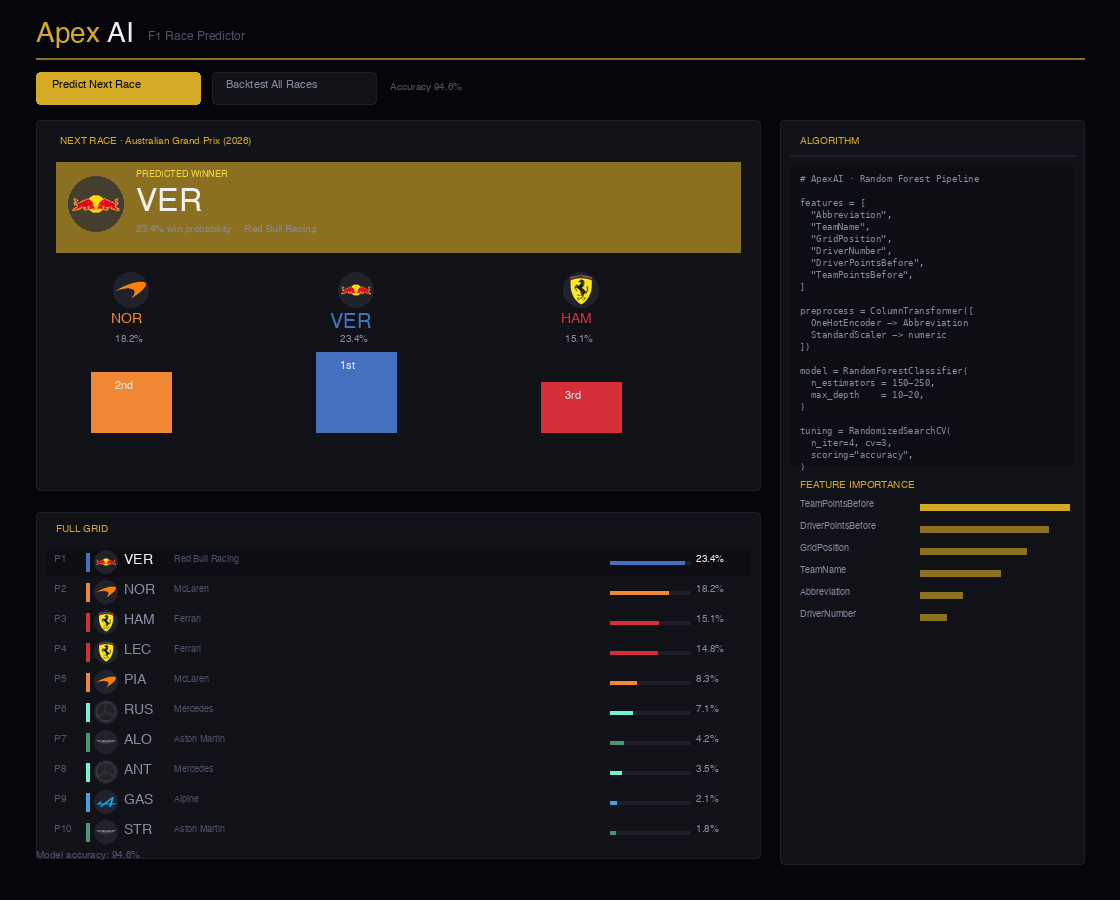
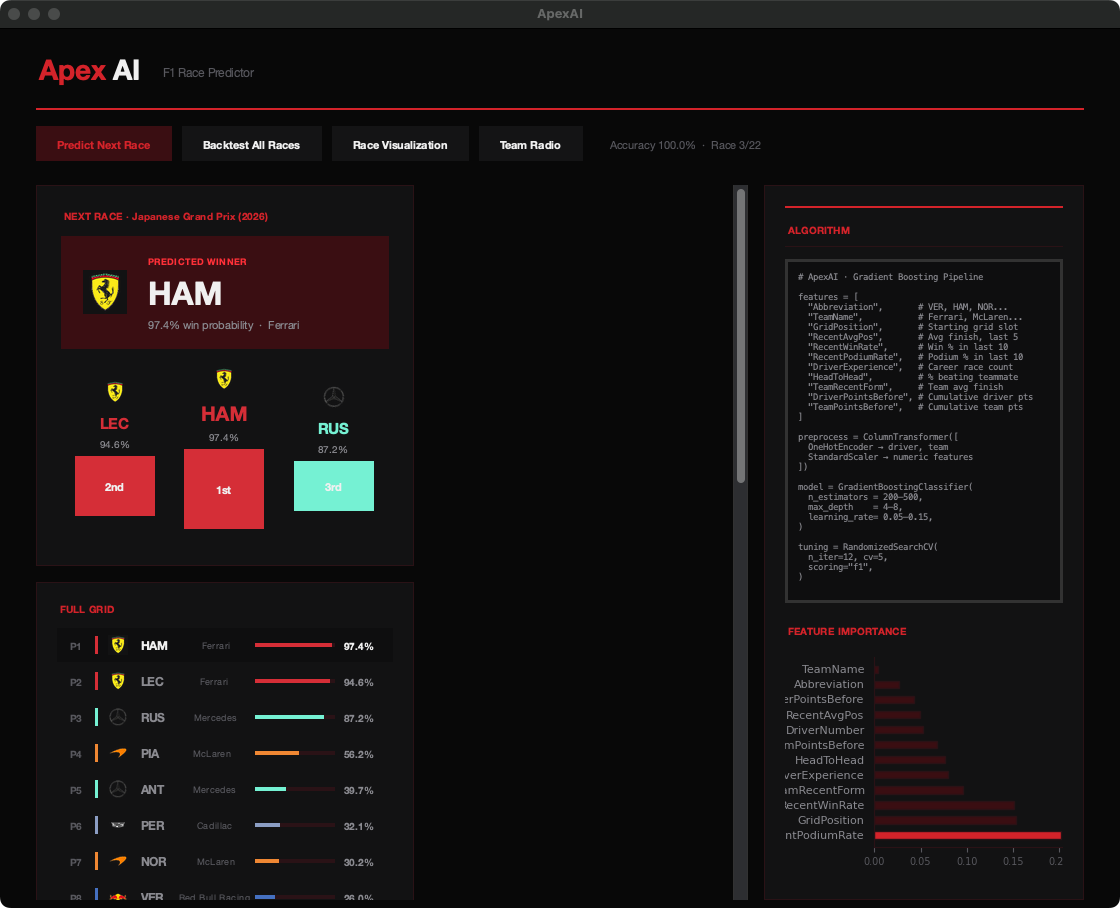
Update screenshot and README for new black/red theme and features
Made-with: Cursor

diff --git a/README.md b/README.md
@@ -1,12 +1,14 @@
 # ApexAI: F1 Winner Predictor
 
 This project downloads Formula 1 race results with the
-[FastF1](https://github.com/theOehrly/Fast-F1) library and trains a random
-forest model to estimate each driver's chance of winning the next race. The
-training data includes cumulative driver and team points before each round.
-`RandomizedSearchCV` selects the best hyperparameters for the forest so the
-predictions are as accurate as possible. Includes a race-themed GUI and supports
-the 2026 driver lineup.
+[FastF1](https://github.com/theOehrly/Fast-F1) library and trains a Gradient
+Boosting model to estimate each driver's chance of winning the next race. The
+model uses rolling performance features — recent win rate, podium rate, average
+finish position, head-to-head vs teammate, driver experience, and team form — on
+top of cumulative championship points. `RandomizedSearchCV` tunes
+hyperparameters over 12 iterations with 5-fold CV. Includes a race-themed GUI
+with track visualization, circuit-specific animations, team radio playback, and
+supports the 2026 driver lineup.
 
 ## Setup
 
